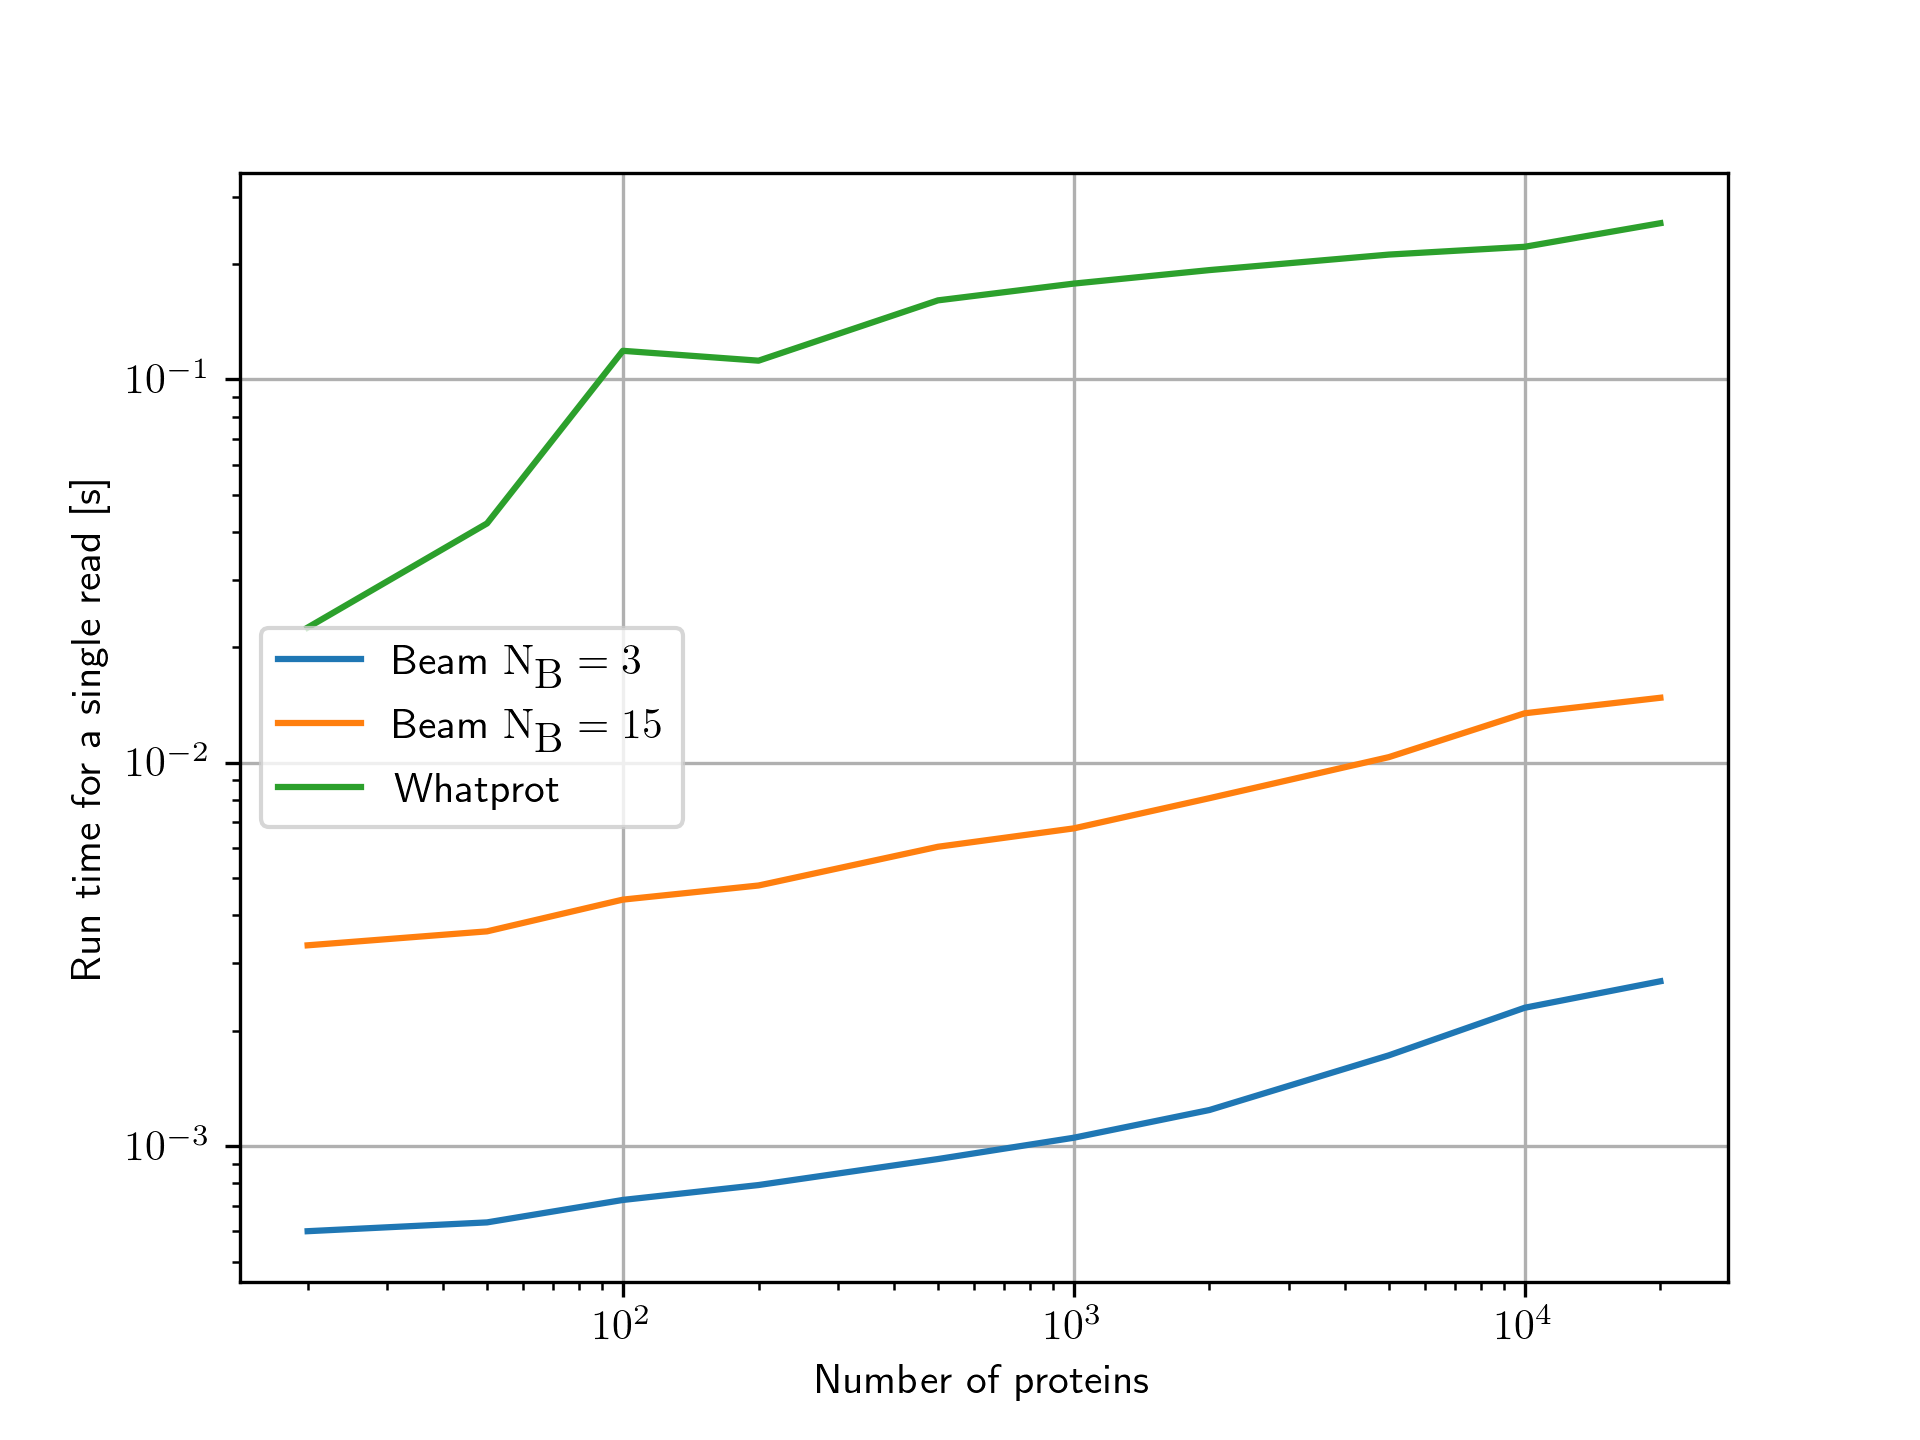
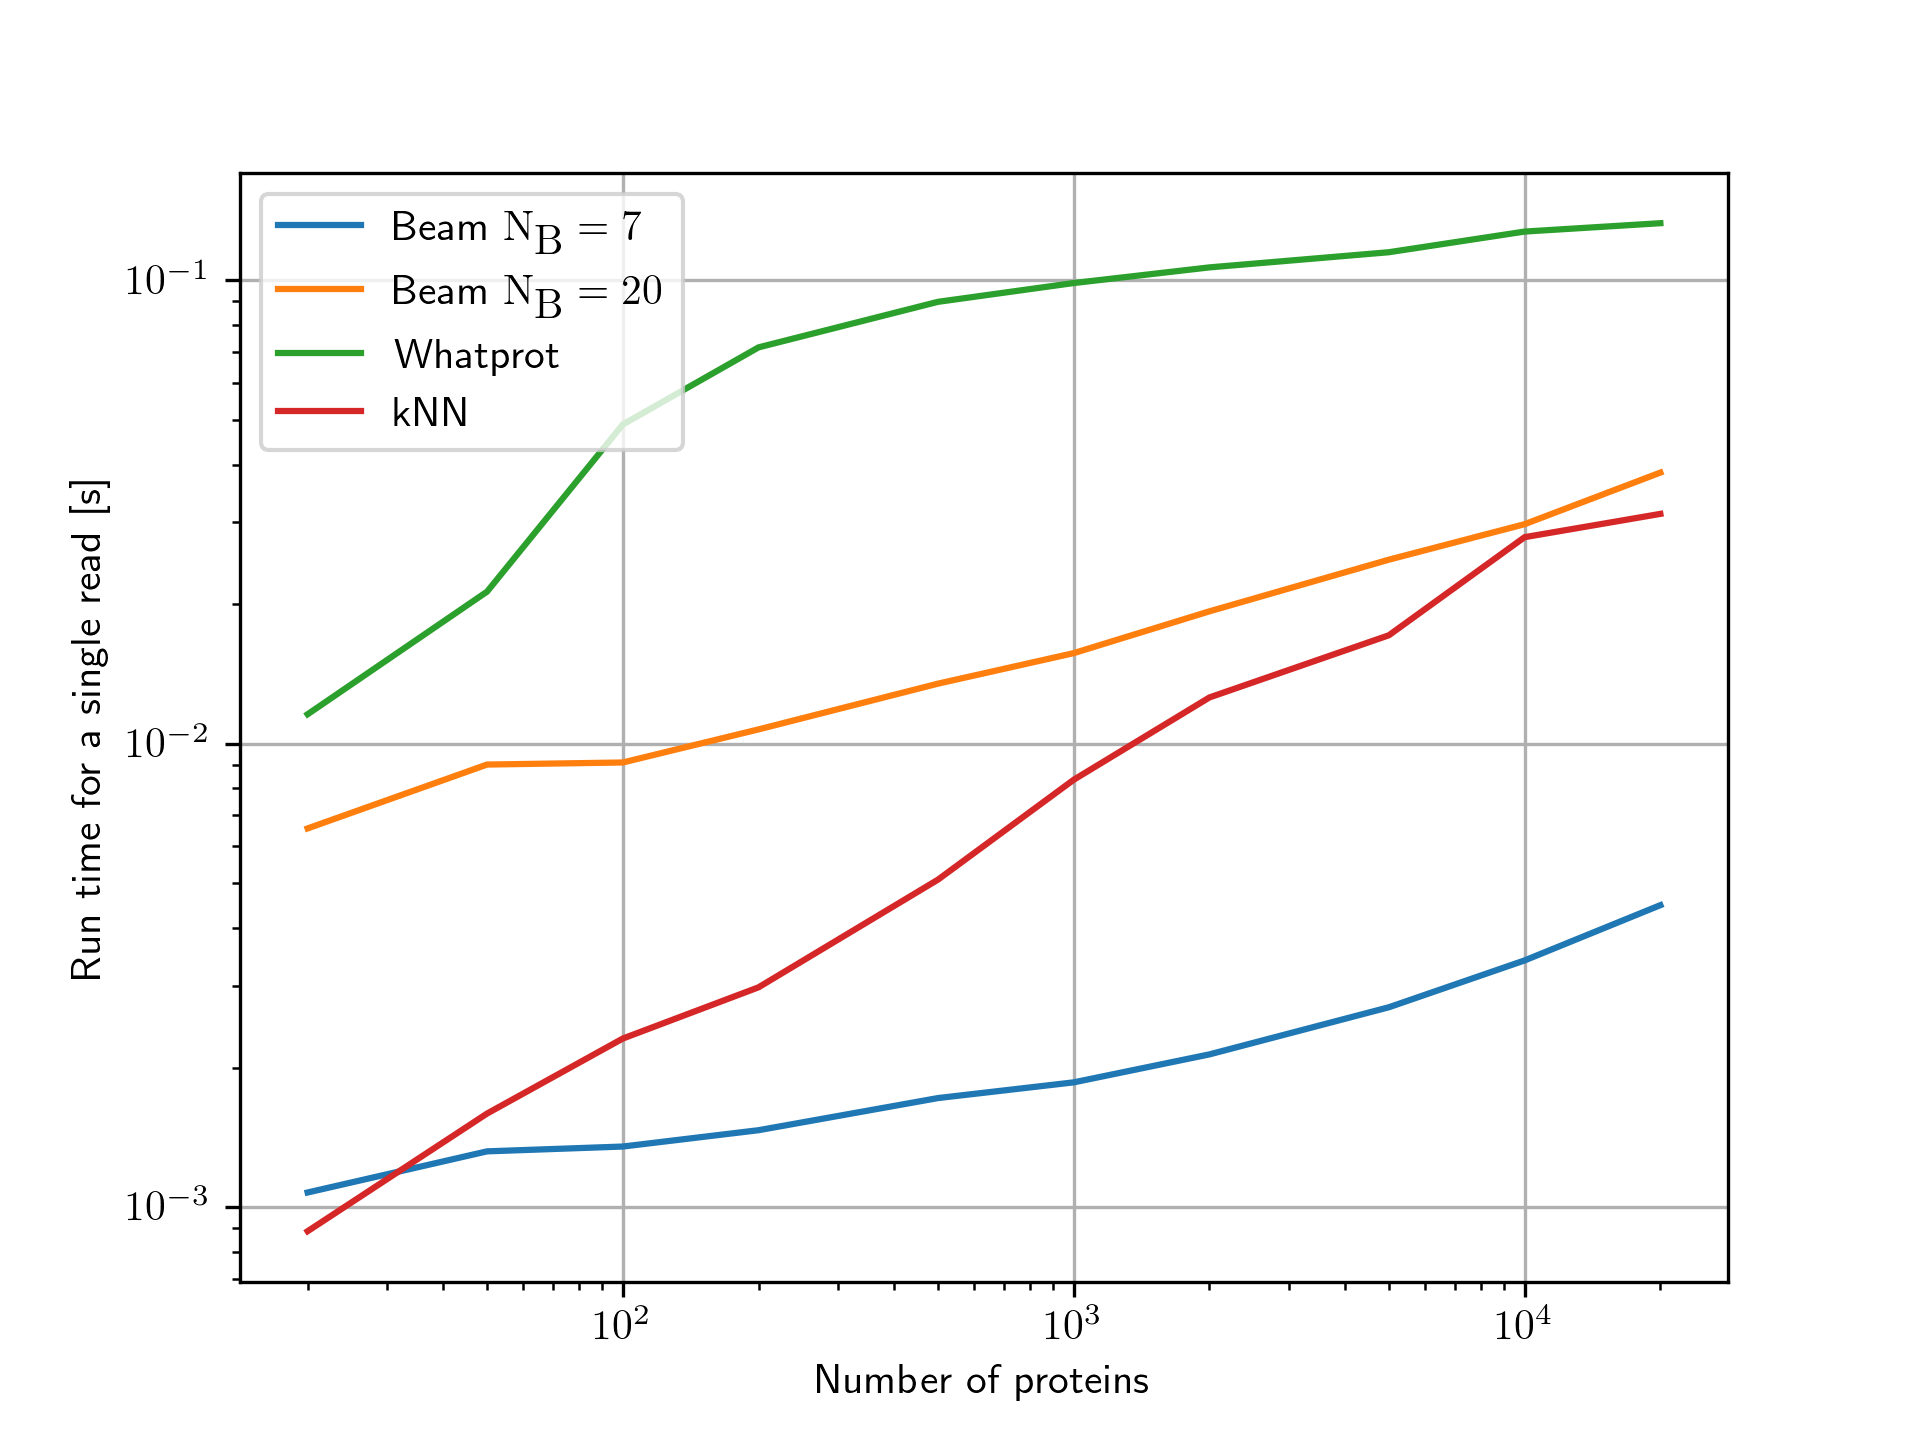
Rerun all datasets

diff --git a/scripts/GenPlots.py b/scripts/GenPlots.py
@@ -31,61 +31,69 @@ def get_crossval_acc(true_ids, y_pred,n_folds=10):
 def get_timing_res(path,n_samples):
     f = open(path, "r")
     msg_hybrid=f.readline();
+    msg_kNN=f.readline();
     msg_beam_1=f.readline();
     msg_beam_2=f.readline();
     nb1=int(msg_beam_1[:1])
     nb2=int(msg_beam_2[:2])
     time_hybrid = float(msg_hybrid[msg_hybrid.find(":")+2:-1])/n_samples
+    time_knn = float(msg_kNN[msg_kNN.find(":")+2:-1])/n_samples
     time_beam_1 = float(msg_beam_1[msg_beam_1.find(":")+2:-1])*1e-6
     time_beam_2 = float(msg_beam_2[msg_beam_2.find(":")+2:-1])*1e-6
-    return time_beam_1,time_beam_2,time_hybrid,nb1,nb2
+    return time_beam_1,time_beam_2,time_hybrid,time_knn,nb1,nb2
 
 mean_accs_beam_1=[]; mean_accs_beam_std_1=[];
 mean_accs_beam_2=[]; mean_accs_beam_std_2=[];
 mean_accs_hybrid=[]; mean_accs_hybrid_std=[];
-times_beam_1=[];times_beam_2=[];times_hybrid=[];
+mean_accs_knn=[]; mean_accs_knn_std=[];
+times_beam_1=[];times_beam_2=[];times_hybrid=[];times_knn=[];
 for n_prot in n_proteins:
     curr_ds=datasets_path+str(n_prot)+"Prot/"
     true_ids =  pd.read_csv(curr_ds+'true-ids.tsv', sep='\t').to_numpy().flatten()
-    time_beam_1,time_beam_2,time_hybrid,nb1,nb2=get_timing_res(curr_ds+"timing-results.txt",len(true_ids));
+    time_beam_1,time_beam_2,time_hybrid,time_knn,nb1,nb2=get_timing_res(curr_ds+"timing-results.txt",len(true_ids));
     predictions_beam_1 = pd.read_csv(curr_ds+"BeamSearchPred"+str(nb1)+".csv")[' best_pep_iz'].to_numpy();
     predictions_beam_2 = pd.read_csv(curr_ds+"BeamSearchPred"+str(nb2)+".csv")[' best_pep_iz'].to_numpy();
     predictions_hybrid = pd.read_csv(curr_ds+"predictionsHybrid.csv")['best_pep_iz'].to_numpy();
+    predictions_knn = pd.read_csv(curr_ds+"predictionskNN.csv")['best_pep_iz'].to_numpy();
     mean_acc_beam_1, mean_acc_beam_std_1 = get_crossval_acc(true_ids,predictions_beam_1)
     mean_acc_beam_2, mean_acc_beam_std_2 = get_crossval_acc(true_ids,predictions_beam_2)
     mean_acc_hybrid, mean_acc_hybrid_std = get_crossval_acc(true_ids,predictions_hybrid)
+    mean_acc_knn, mean_acc_knn_std = get_crossval_acc(true_ids,predictions_knn)
     mean_accs_beam_1.append(mean_acc_beam_1);mean_accs_beam_std_1.append(mean_acc_beam_std_1)
     mean_accs_beam_2.append(mean_acc_beam_2);mean_accs_beam_std_2.append(mean_acc_beam_std_2)
     mean_accs_hybrid.append(mean_acc_hybrid);mean_accs_hybrid_std.append(mean_acc_hybrid_std)
-    times_beam_1.append(time_beam_1);times_beam_2.append(time_beam_2);times_hybrid.append(time_hybrid)
+    mean_accs_knn.append(mean_acc_knn);mean_accs_knn_std.append(mean_acc_knn_std)
+    times_beam_1.append(time_beam_1);times_beam_2.append(time_beam_2);times_hybrid.append(time_hybrid);times_knn.append(time_knn);
     
 plt.rcParams.update({
     "text.usetex": True})
 plt.figure(dpi=300)
-plt.errorbar(n_proteins,mean_accs_beam_1,yerr=mean_accs_beam_std_1,label=r'Beam $\textrm{N}_{\textrm{B}}=3$')
-plt.errorbar(n_proteins,mean_accs_beam_2,yerr=mean_accs_beam_std_2,label=r'Beam $\textrm{N}_{\textrm{B}}=15$')
+plt.errorbar(n_proteins,mean_accs_beam_1,yerr=mean_accs_beam_std_1,label=r'Beam $\textrm{N}_{\textrm{B}}=7$')
+plt.errorbar(n_proteins,mean_accs_beam_2,yerr=mean_accs_beam_std_2,label=r'Beam $\textrm{N}_{\textrm{B}}=20$')
 plt.errorbar(n_proteins,mean_accs_hybrid,yerr=mean_accs_hybrid_std,label="Whatprot")
+plt.errorbar(n_proteins,mean_accs_knn,yerr=mean_accs_knn_std,label="kNN")
 plt.legend()
 plt.xscale("log")
 plt.xlabel("Number of proteins")
 plt.ylabel("Accuracy")
 plt.grid()
-plt.savefig("results/Accuracy.eps")
+plt.savefig("results/Accuracy.png")
 #plt.show()
 
 plt.figure(dpi=300)
-plt.loglog(n_proteins,times_beam_1,label=r'Beam $\textrm{N}_{\textrm{B}}=3$')
-plt.loglog(n_proteins,times_beam_2,label=r'Beam $\textrm{N}_{\textrm{B}}=15$')
+plt.loglog(n_proteins,times_beam_1,label=r'Beam $\textrm{N}_{\textrm{B}}=7$')
+plt.loglog(n_proteins,times_beam_2,label=r'Beam $\textrm{N}_{\textrm{B}}=20$')
 plt.loglog(n_proteins,times_hybrid,label="Whatprot")
+plt.loglog(n_proteins,times_knn,label="kNN")
 plt.legend()
 plt.xlabel("Number of proteins")
 plt.ylabel("Run time for a single read [s]")
 plt.grid()
-plt.savefig("results/Runtime.eps")
+plt.savefig("results/Runtime.png")
 
 ###Figure 2 ####
 #ipdb.set_trace()
-
+"""
 dataset_thousand_path=datasets_path+"1000Prot/";
 
 true_ids =  pd.read_csv(dataset_thousand_path+'true-ids.tsv', sep='\t').to_numpy().flatten()
@@ -111,8 +119,10 @@ def doHist2D(ypredX,ypredY,varX,varY,labelX,labelY,ids):
 
 doHist2D(y_predB,y_predHMM,y_predBScore,y_predHMMScore,r'Beam $\textrm{N}_{\textrm{B}}=15$',"HMM",true_ids)
 plt.savefig("results/histComp.eps")
-
+"""
 ##Accuracy for table 
+
+"""
 
 dataset_long="data/LongDatasets/1000Prot/"
 #dataset_long="data/NormDatasets/1000Prot/"
@@ -127,3 +137,4 @@ print("Results for long dataset: ")
 print("Beam Decoder - Accuracy " +  str(mean_acc_beam) + ", Std: " + str(mean_acc_beam_std))
 print("HMM - Accuracy " +  str(mean_acc_hmm) + ", Std: " + str(mean_acc_hmm_std))
 
+"""

diff --git a/scripts/TestWhatprotsParams.py b/scripts/TestWhatprotsParams.py
@@ -1,0 +1,70 @@
+# -*- coding: utf-8 -*-
+"""
+Created on Tue Apr 18 17:10:28 2023
+
+@author: JK-WORK
+"""
+
+import os, shutil
+import subprocess
+
+
+def erase_contents(folder): #Erase contents of folder
+    for filename in os.listdir(folder): ## https://stackoverflow.com/questions/185936/how-to-delete-the-contents-of-a-folder
+        file_path = os.path.join(folder, filename)
+        try:
+            if os.path.isfile(file_path) or os.path.islink(file_path):
+                os.unlink(file_path)
+            elif os.path.isdir(file_path):
+                shutil.rmtree(file_path)
+        except Exception as e:
+            print('Failed to delete %s. Reason: %s' % (file_path, e))
+
+def get_proc_time(outputHybrid):
+    output=str(outputHybrid);
+    idx_t_start=output.find("Finished classification")+25;
+    substr=output[idx_t_start:];
+    computing_time=float(substr[:substr.find(" ")])
+    return computing_time;
+
+def get_proc_time_beam(outputBeam):
+    output=str(outputBeam);
+    idx_t_start=output.find(": ")+2;
+    substr=output[idx_t_start:];
+    computing_time=float(substr[:substr.find(" ")])
+    return computing_time;
+
+n_proteins=20000;
+
+path_data=os.path.dirname(os.path.dirname(os.path.abspath(__file__)))+"/data/";
+full_path_to_ds=path_data+"NormDatasets/";
+path_datasets_figure_common_files= path_data +"common/"
+prot_fasta=path_datasets_figure_common_files+"UP000005640_9606.fasta"
+seq_params_path= path_datasets_figure_common_files + "seq-params.json"
+protein_folder=full_path_to_ds+str(n)+"Prot/"
+dye_seqs_path=protein_folder+"dye-seqs.tsv";
+dye_tracks_path=protein_folder+"dye-tracks.tsv";
+radiometries_path=protein_folder+"radiometries.tsv";
+true_ids_path=protein_folder+"true-ids.tsv";
+cmd_set_threads="export OMP_NUM_THREADS=1";
+
+kH_param_map={10000:[100,250,500],1000:[100,250,500],100:[50,100]}
+msgs_list=[];
+for k in kH_param_map.keys():
+    h_list=kH_param_map[k];
+    for h in h_list:
+        predictions_hybrid_path = protein_folder+"predictionsHybrid_K"+str(k)+"_H_"+str(h)+".csv";
+        cmd_classify_hybrid = "./bin/whatprot classify hybrid -k "+str(k)+" -s 0.5 -H "+str(h)+" -p 5 -P " + seq_params_path + " -S " + dye_seqs_path + " -T " +dye_tracks_path + " -R " + radiometries_path + " -Y " + predictions_hybrid_path;
+        #outputHybrid=subprocess.check_output("export OMP_NUM_THREADS=1\n"+cmd_classify_hybrid, shell=True)
+        outputHybrid=subprocess.check_output(cmd_classify_hybrid, shell=True) #To run faster to obtain acc results before
+        computing_time_hybrid=get_proc_time(outputHybrid)
+        hybrid_msg="Hybrid computing total time (seconds) for K=" +str(K)+" H= "+ str(h)+ ": "+ str(computing_time_hybrid);
+        print(str(outputHybrid))
+        msgs_list.append(outputHybrid);
+with open(protein_folder+"timing-results.txt", 'w') as f:
+    for i in range(len(msgs_list)):
+        f.write(msgs_list[i])
+        f.write('\n')
+    #subprocess.run(cmd_classify_beam, shell=True, check=True)
+    #subprocess.run(cmd_sim_rad)
+

diff --git a/scripts/CompareAccsPeptides.py b/scripts/CompareAccsPeptides.py
@@ -22,7 +22,7 @@ from matplotlib.colors import LogNorm
 #datasets_path="C:/Users/JK-WORK/Documents/modifWhatprot/Own/HMM_modif/Datasets/ForPaper/";
 #datasets_path="C:/Users/JK-WORK/Desktop/probeam/probeam/data/NormDatasets/"
 datasets_path="../data/NormDatasets/"
-n_proteins=1000;
+n_proteins=20000;
 
 def get_crossval_acc(true_ids, y_pred, dye_seqs_map, n_folds=10):
     folds_ids=np.array_split(true_ids, n_folds)
@@ -44,22 +44,22 @@ dye_seqs=pd.read_csv(curr_ds+"dye-seqs.tsv", sep='\t', skiprows=2,header=None)
 
 dye_seqs_map = {dye_seqs.loc[i,2]:dye_seqs.loc[i,1] for i in range(len(dye_seqs))} #Maps pep id to count of peptides same pep id
 
-predictions_beam = pd.read_csv(curr_ds+"BeamSearchPred15.csv")[' best_pep_iz'].to_numpy();
+predictions_beam = pd.read_csv(curr_ds+"BeamSearchPred20.csv")[' best_pep_iz'].to_numpy();
 #predictions_beam_old = pd.read_csv(curr_ds+"BeamSearchPred15Old.csv")[' best_pep_iz'].to_numpy();
 predictions_hybrid = pd.read_csv(curr_ds+"predictionsHybrid.csv")['best_pep_iz'].to_numpy();
-predictions_hmm = pd.read_csv(curr_ds+"predictionsHMM.csv")['best_pep_iz'].to_numpy();
-#predictions_kNN = pd.read_csv(curr_ds+"predictionskNN.csv")['best_pep_iz'].to_numpy();
+#predictions_hmm = pd.read_csv(curr_ds+"predictionsHMM.csv")['best_pep_iz'].to_numpy();
+predictions_kNN = pd.read_csv(curr_ds+"predictionskNN.csv")['best_pep_iz'].to_numpy();
 
 true_ids =  pd.read_csv(curr_ds+'true-ids.tsv', sep='\t').to_numpy().flatten()
 
 acc_beam,std_beam=get_crossval_acc(true_ids, predictions_beam, dye_seqs_map);
 #acc_beam_old,std_beam_old=get_crossval_acc(true_ids, predictions_beam_old, dye_seqs_map);
 acc_hybrid,std_hybrid=get_crossval_acc(true_ids, predictions_hybrid, dye_seqs_map);
-acc_hmm,std_hmm=get_crossval_acc(true_ids, predictions_hmm, dye_seqs_map);
-#acc_knn,std_knn=get_crossval_acc(true_ids, predictions_kNN, dye_seqs_map);
+#acc_hmm,std_hmm=get_crossval_acc(true_ids, predictions_hmm, dye_seqs_map);
+acc_knn,std_knn=get_crossval_acc(true_ids, predictions_kNN, dye_seqs_map);
 
 print(str(acc_beam) + str(std_beam))
 #print(str(acc_beam_old) + str(std_beam_old))
 print(str(acc_hybrid) + str(std_hybrid))
-print(str(acc_hmm) + str(std_hmm))
-#print(str(acc_knn) + str(std_knn))
+#print(str(acc_hmm) + str(std_hmm))
+print(str(acc_knn) + str(std_knn))

diff --git a/scripts/DatasetClassify.py b/scripts/DatasetClassify.py
@@ -35,8 +35,9 @@ def get_proc_time_beam(outputBeam):
     return computing_time;
 
 n_proteins=[20,50,100,200,500,1000,2000,5000,10000,20000];
+#n_proteins=[20];
 #n_proteins=[20000];
-n_beams=[3,15];
+n_beams=[7,40];
 
 
 path_data=os.path.dirname(os.path.dirname(os.path.abspath(__file__)))+"/data/";
@@ -55,12 +56,22 @@ for n in n_proteins:
     radiometries_path=protein_folder+"radiometries.tsv";
     true_ids_path=protein_folder+"true-ids.tsv";
     predictions_hybrid_path = protein_folder+"predictionsHybrid.csv"
+    predictions_knn_path = protein_folder+"predictionskNN.csv"
+
+    cmd_classify_knn = "./bin/whatprot classify nn -k 10000 -s 0.5 -P " + seq_params_path + " -T " +dye_tracks_path + " -R " + radiometries_path + " -Y " + predictions_knn_path;
+    outputknn=subprocess.check_output("export OMP_NUM_THREADS=1\n"+cmd_classify_knn, shell=True)
+    computing_time_knn=get_proc_time(outputknn)
+    knn_msg="kNN computing total time (seconds): "+ str(computing_time_knn);
+    print(str(knn_msg))
+
     cmd_classify_hybrid = "./bin/whatprot classify hybrid -k 10000 -s 0.5 -H 1000 -p 5 -P " + seq_params_path + " -S " + dye_seqs_path + " -T " +dye_tracks_path + " -R " + radiometries_path + " -Y " + predictions_hybrid_path;
     #output=subprocess.run(cmd_classify_hybrid, shell=True, check=True)
     outputHybrid=subprocess.check_output("export OMP_NUM_THREADS=1\n"+cmd_classify_hybrid, shell=True)
     computing_time_hybrid=get_proc_time(outputHybrid)
     hybrid_msg="Hybrid computing total time (seconds): "+ str(computing_time_hybrid);
     print(str(outputHybrid))
+
+
     beam_msgs=[];
     for n_beam in n_beams:
         cmd_classify_beam = "./bin/probeam " + full_path_to_ds + str(n)+"Prot/"+ " -b "+str(n_beam)
@@ -71,6 +82,8 @@ for n in n_proteins:
         print(str(outputBeam))
     with open(protein_folder+"timing-results.txt", 'w') as f:
         f.write(hybrid_msg)
+        f.write('\n')
+        f.write(knn_msg)
         f.write('\n')
         for beam_msg in beam_msgs:
             f.write(beam_msg)

diff --git a/scripts/analyzeNB.py b/scripts/analyzeNB.py
@@ -9,23 +9,32 @@ path_datasets="data/NormDatasets/"
 n_proteins=20000;
 path_big_ds= path_datasets + str(n_proteins)+"Prot/"
 
-def get_crossval_acc(true_ids, y_pred,n_folds=10):
+def get_crossval_acc(true_ids, y_pred, dye_seqs_map, n_folds=10):
     folds_ids=np.array_split(true_ids, n_folds)
     folds_y_pred=np.array_split(y_pred, n_folds)
     accs=[]
     for i in range(n_folds):
-        accs.append(metrics.accuracy_score(folds_ids[i], folds_y_pred[i]))
+        total_acc = 0
+        for j in range(len(folds_ids[i])):
+            if folds_ids[i][j] == folds_y_pred[i][j]:
+                total_acc = total_acc + (1/dye_seqs_map[folds_ids[i][j]])
+        total_acc = total_acc/len(folds_ids[i]);
+        accs.append(total_acc)
+        #accs.append(metrics.accuracy_score(folds_ids[i], folds_y_pred[i]))
     return np.mean(accs),np.std(accs)/np.sqrt(n_folds)
 
-
+dye_seqs=pd.read_csv(path_big_ds+"dye-seqs.tsv", sep='\t', skiprows=2,header=None)
+dye_seqs_map = {dye_seqs.loc[i,2]:dye_seqs.loc[i,1] for i in range(len(dye_seqs))} #Maps pep id to count of peptides same pep id
+true_ids =  pd.read_csv(path_big_ds+'true-ids.tsv', sep='\t').to_numpy().flatten()
 df=pd.read_csv(path_big_ds+"NBtiming-results.txt", header=None)
 df['Accuracy'] = 0;
-df.columns=["N beam", "Microsecs per read", "Accuracy"];
+df['Accuracy std'] = 0;
+df.columns=["N beam", "Microsecs per read", "Accuracy", "Accuracy std"];
 for i in range(len(df)):
-    true_ids =  pd.read_csv(path_big_ds+'true-ids.tsv', sep='\t').to_numpy().flatten()
     predictions_beam = pd.read_csv(path_big_ds+"BeamSearchPred"+str(int(df.iloc[i]["N beam"]))+".csv")[' best_pep_iz'].to_numpy();
-    mean_acc_beam, mean_acc_beam_std = get_crossval_acc(true_ids,predictions_beam)
+    mean_acc_beam, mean_acc_beam_std = get_crossval_acc(true_ids,predictions_beam,dye_seqs_map)
     df.loc[i,"Accuracy"]=mean_acc_beam;
+    df.loc[i,"Accuracy std"]=mean_acc_beam_std;
 
 print(df)
 

diff --git a/scripts/DatasetGen.py b/scripts/DatasetGen.py
@@ -26,8 +26,8 @@ def erase_contents(folder): #Erase contents of folder
         except Exception as e:
             print('Failed to delete %s. Reason: %s' % (file_path, e))
 
-n_proteins=[20,50,100,200,500,1000,2000,5000,10000,20000];
-
+n_proteins=[20,50,100,200,500,1000,2000,5000,10000];
+#n_proteins=[20000];
 
 path_datasets=os.path.dirname(os.path.dirname(os.path.abspath(__file__)))+"/data/"
 path_datasets_norm=path_datasets+"NormDatasets/"
@@ -87,3 +87,4 @@ cmd_sim_rad = "./bin/whatprot simulate rad -t 10 -g "+str(n_reads_long)+" -P " +
 
 subprocess.run(cmd_sim_rad, shell=True, check=True)
 subprocess.run(cmd_gen_dye_tracks, shell=True, check=True)
+

diff --git a/scripts/BestNbSearch.py b/scripts/BestNbSearch.py
@@ -34,7 +34,7 @@ def get_proc_time_beam(outputBeam):
     return computing_time;
 
 n_proteins=20000; #Only on the 20k dataset
-n_beams=[2,3,4,5,6,7,8,9,10,12,15,20,40];
+n_beams=[2,3,5,7,10,12,15,20,40];
 
 path_datasets_figure=os.path.dirname(os.path.dirname(os.path.abspath(__file__)))+"/data/NormDatasets/";
 
